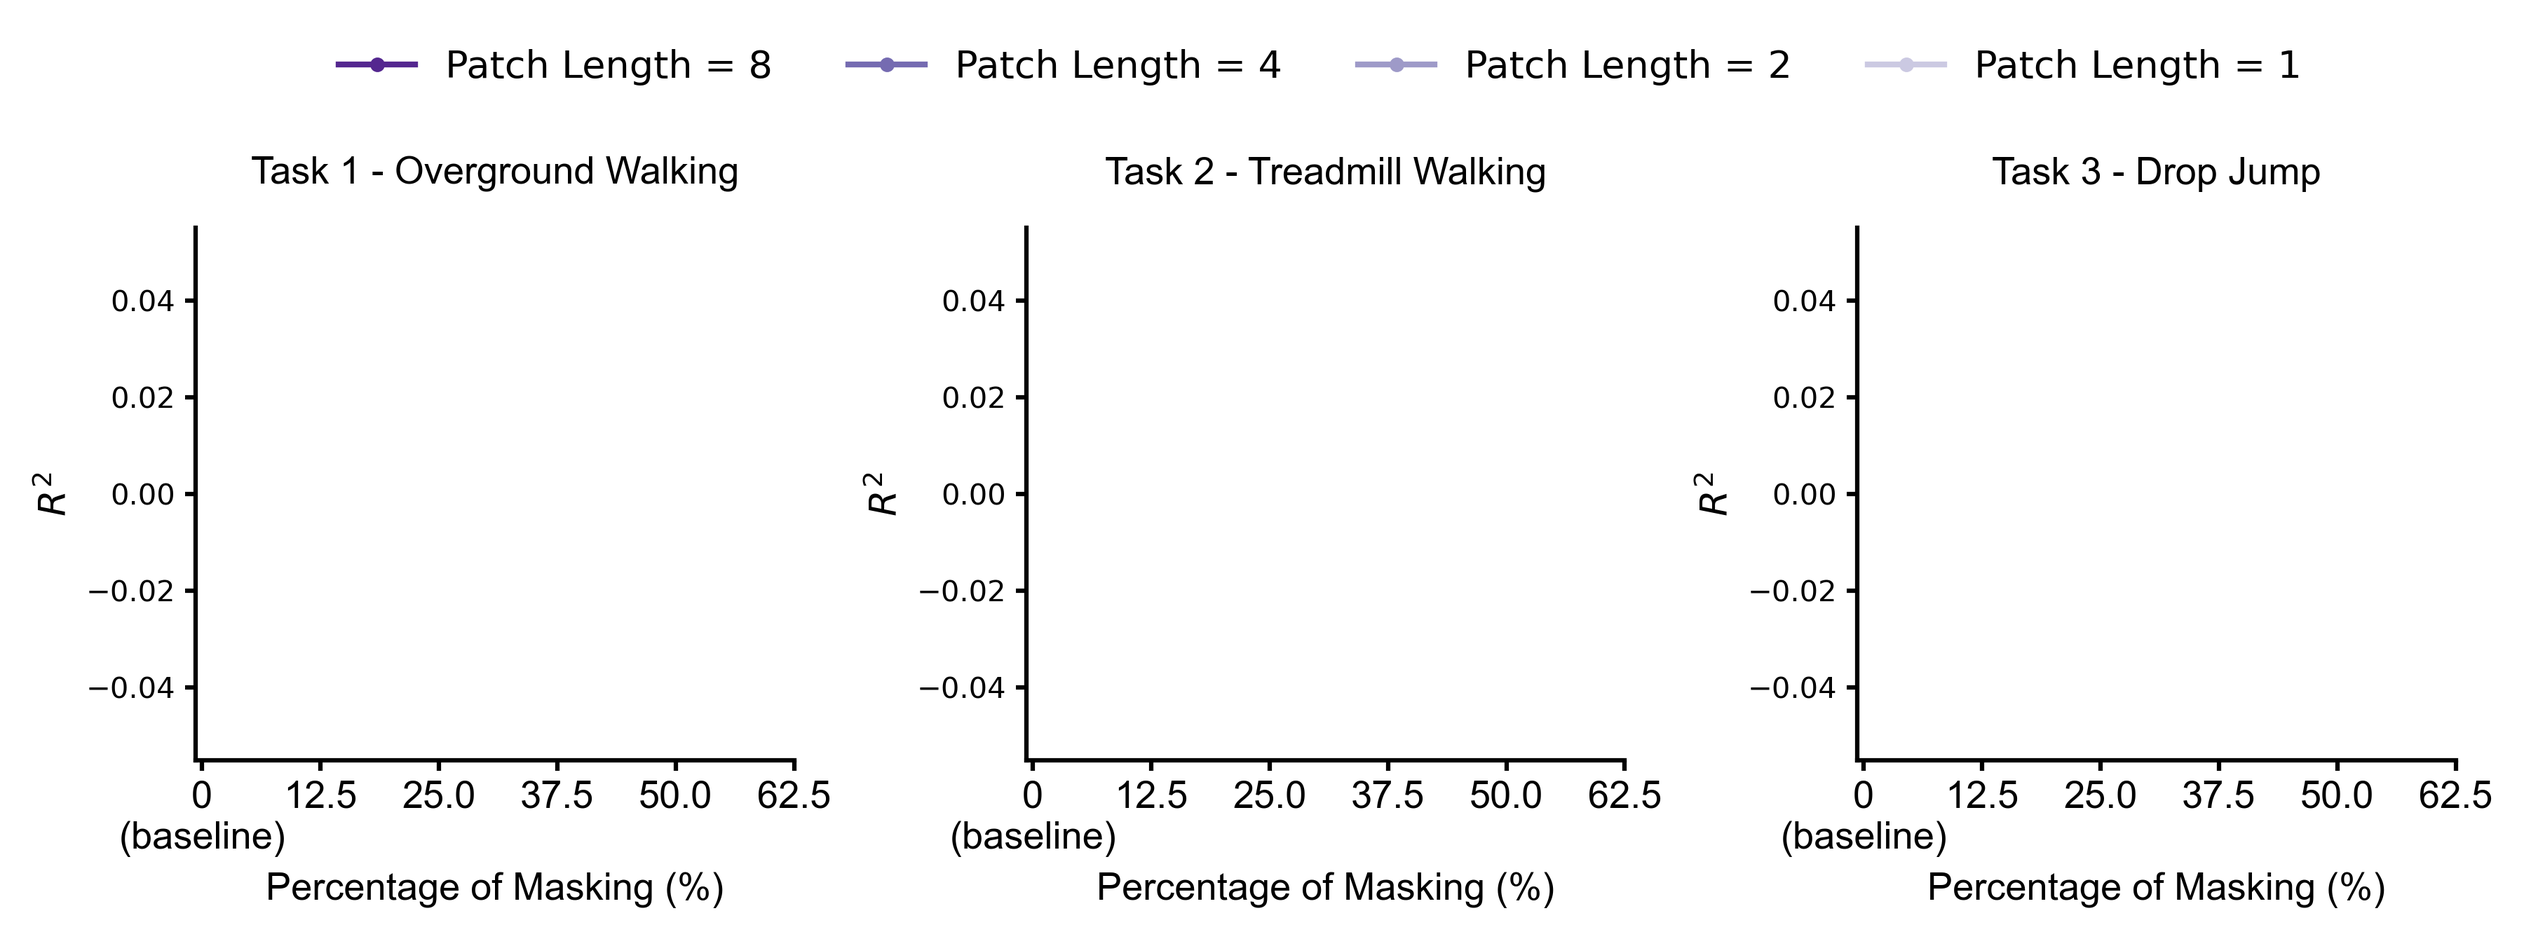
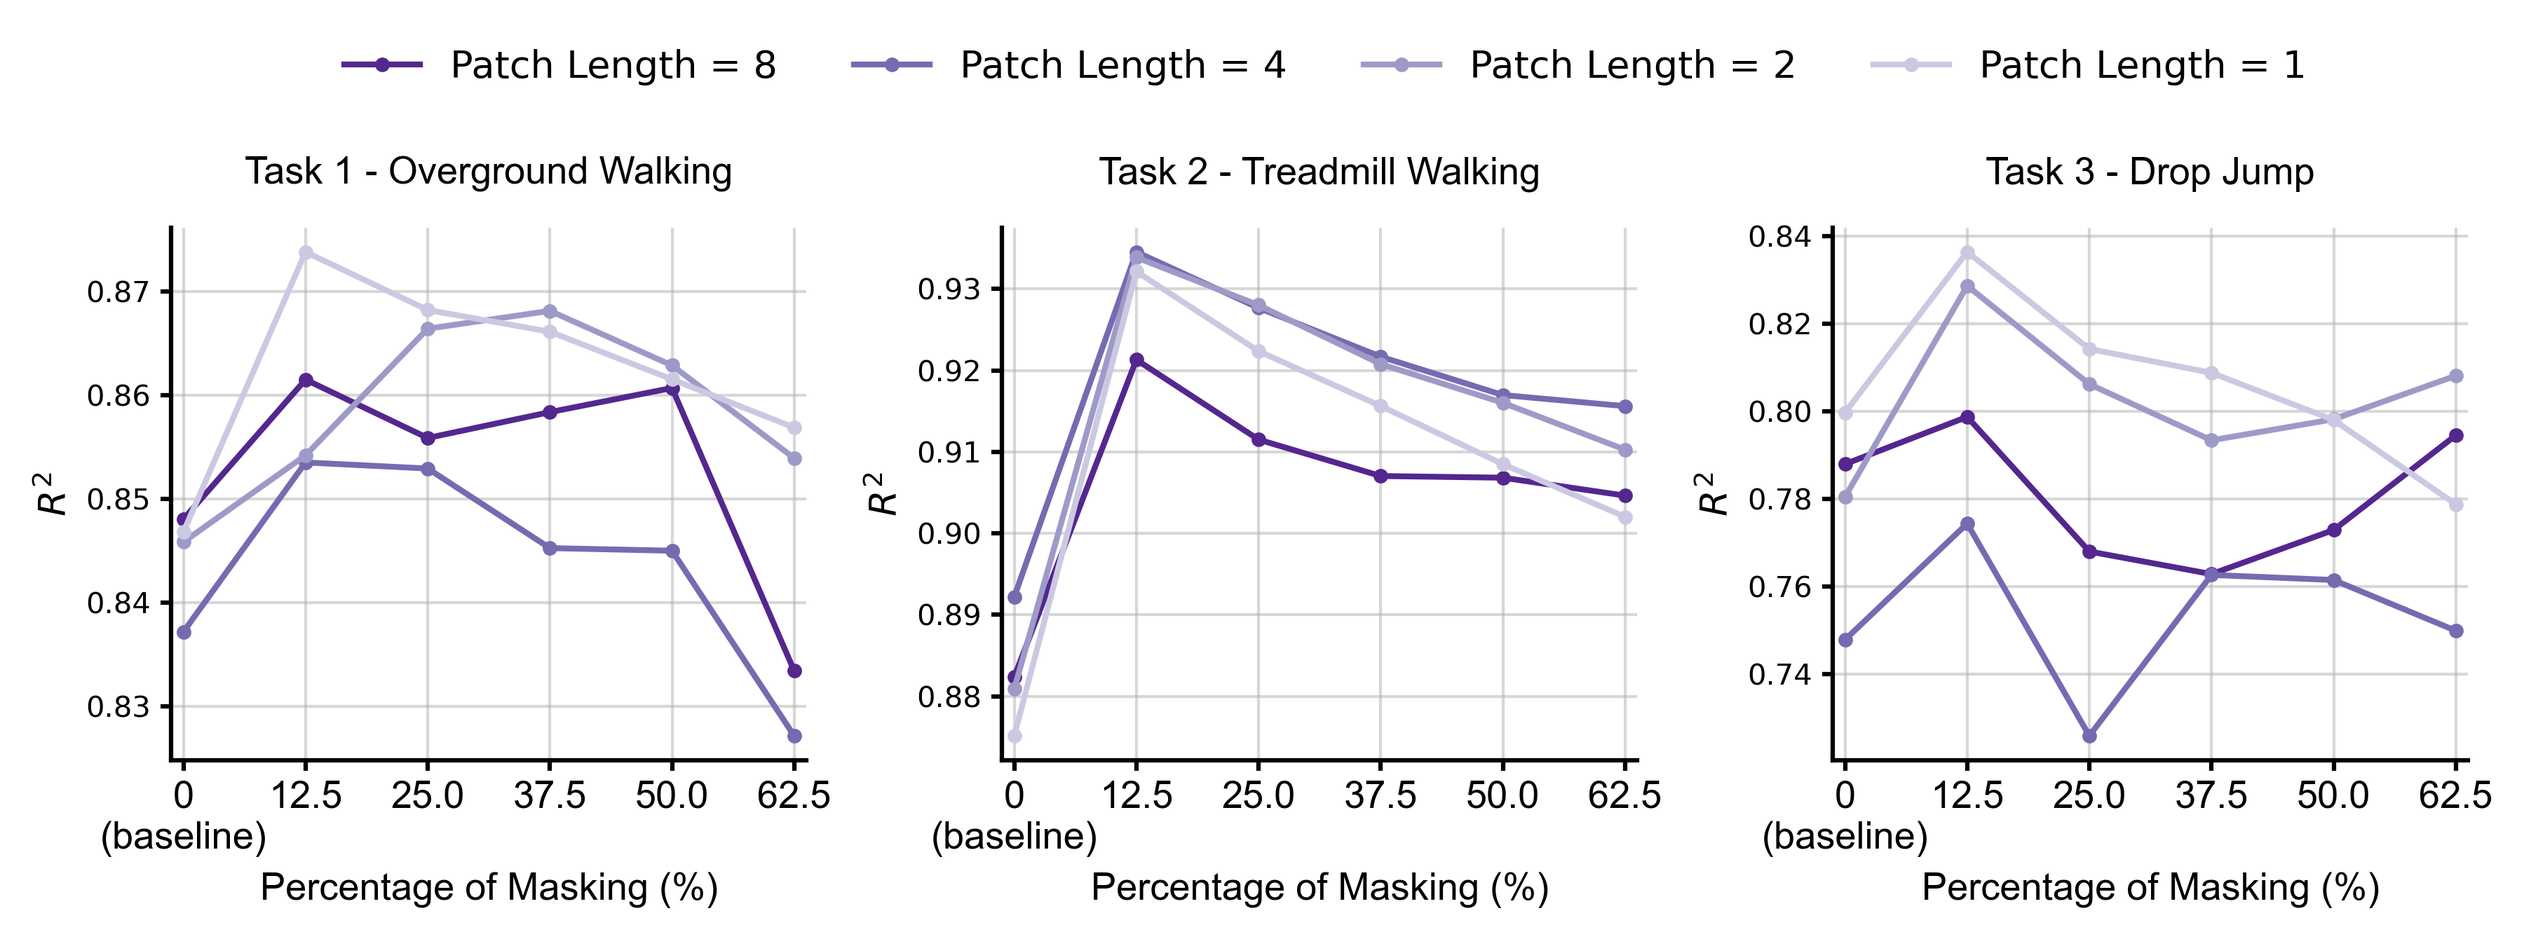
TF, map input to embedding space

diff --git a/ssl_main/model.py b/ssl_main/model.py
@@ -39,7 +39,7 @@ class SslReconstructNet(nn.Module):
     def __init__(self, emb_net, loss_fn):
         super(SslReconstructNet, self).__init__()
         self.emb_net = emb_net
-        self.linear = nn.Linear(emb_net.x_dim, emb_net.x_dim)
+        self.linear = nn.Linear(emb_net.embedding_dim, emb_net.x_dim * emb_net.patch_len)
         self.loss_fn = loss_fn
 
     def forward(self, mods, lens, tgt=None):
@@ -47,7 +47,8 @@ class SslReconstructNet(nn.Module):
         if tgt is not None:
             tgt = torch.concat(tgt, dim=1)
         mod_outputs, mask_indices, mod_all_expanded = self.emb_net(mod_all, lens, tgt)
-        mod_outputs = self.linear(mod_outputs.transpose(1, 2)).transpose(1, 2)
+        mask_indices = mask_indices.view([*mod_outputs.shape[:2], -1, mod_all.shape[1]]).flatten(1, 2).transpose(1, 2)
+        mod_outputs = self.linear(mod_outputs).view([*mod_outputs.shape[:2], -1, mod_all.shape[1]]).flatten(1, 2).transpose(1, 2)
         loss = self.loss_fn(mod_outputs, mod_all, mask_indices)
         return loss, mod_outputs, mask_indices
 
@@ -73,21 +74,16 @@ class RegressNet(nn.Module):
     def __init__(self, emb_net, mod_channel_num, output_dim):
         super(RegressNet, self).__init__()
         self.emb_net = emb_net
-        self.emb_output_dim = emb_net.x_dim
         self.output_dim = output_dim
+        self.linear = nn.Linear(emb_net.embedding_dim, output_dim * emb_net.patch_len)
 
-        self.linear = nn.Linear(self.emb_output_dim, output_dim)
-
-    def forward(self, x, lens, tgt=None):
+    def forward(self, x, test_flag, tgt=None):
         batch_size, _, seq_len = x[0].shape
         mod_all = torch.concat(x, dim=1)
-        if tgt is not None:
-            tgt = tgt.repeat(1, mod_all.shape[1] // tgt.shape[1], 1)
-        mod_outputs, _, _ = self.emb_net(mod_all, lens, tgt)
-
-        output = mod_outputs.transpose(1, 2)
-        output = self.linear(output)
-        output = output.transpose(1, 2)
+        # if tgt is not None:       # This is for an encoder-decoder TF
+        #     tgt = tgt.repeat(1, mod_all.shape[1] // tgt.shape[1], 1)
+        mod_outputs, _, _ = self.emb_net(mod_all, test_flag, tgt)
+        output = self.linear(mod_outputs).view([*mod_outputs.shape[:2], -1, self.output_dim]).flatten(1, 2).transpose(1, 2)
         return output, mod_outputs
 
 
@@ -224,7 +220,9 @@ class TransformerEncoderOnly(nn.Module):
         self.patch_step_len = patch_step_len
         self.pad_len = 0
         self.x_dim = x_dim
-        self.d_model = int(self.x_dim * patch_len)
+        self.embedding_dim = 192
+        self.input_to_embedding = nn.Linear(x_dim * patch_len, self.embedding_dim)
+        self.d_model = int(self.embedding_dim)
         encoder_layers = TransformerEncoderLayer(self.d_model, nhead, dim_feedforward, batch_first=True)
 
         self.transformer = TransformerEncoder(encoder_layers, nlayers)
@@ -234,27 +232,20 @@ class TransformerEncoderOnly(nn.Module):
         self.reduced_imu_mask_emb = nn.Parameter(torch.zeros([48, 128]).uniform_() - 0.5)
         self.mask_input_channel = mask_input_channel
         self.patch_num = int(128 / self.patch_len)
-        self.pos_encoding = PositionalEncoding(x_dim * patch_len, self.patch_num)
+        self.pos_encoding = PositionalEncoding(self.embedding_dim, self.patch_num)
 
     def forward(self, sequence, test_flag, _):
         sequence = self.apply_reduced_imu_set_mask(sequence)
         sequence_patch = self.divide_into_patches(sequence)
         sequence_patch, mask_indices = self.apply_ssl_mask(sequence_patch)
+        sequence_patch = self.input_to_embedding(sequence_patch)
         sequence_patch = self.pos_encoding(sequence_patch)
-        sequence_patch = self.transformer(sequence_patch)
-
-        output = self.flat_patches(sequence_patch)
-        mask_indices = self.flat_patches(mask_indices)
+        output = self.transformer(sequence_patch)
         return output, mask_indices, sequence
 
     def divide_into_patches(self, sequence):
         sequence = F.pad(sequence, (0, 0, self.pad_len, self.pad_len))
         sequence = sequence.unfold(2, self.patch_len, self.patch_step_len)
-        sequence = sequence.transpose(1, 2).flatten(start_dim=2)
-        return sequence
-
-    def flat_patches(self, sequence):
-        sequence = sequence.view([*sequence.shape[:2], -1, self.patch_len])
         sequence = sequence.transpose(1, 2).flatten(start_dim=2)
         return sequence
 

diff --git a/figures/f3_matrix.py b/figures/f3_matrix.py
@@ -65,20 +65,21 @@ def plot_curve(i_da, data_all, x_ticks, curve_labels):
         ax.plot(data_combined[:, i_col], color=colors[i_col], marker="o", markersize=4, linewidth=LINE_WIDTH_THICK)
     ax.set_xlabel('Percentage of Masking (%)', fontdict=FONT_DICT, labelpad=5)
     ax.set_xticks(range(len(x_ticks)))
+    ax.set_xlim(-0.1, len(x_ticks) - 0.9)
     ax.set_xticklabels(x_ticks, fontdict=FONT_DICT)
     ax.set_ylabel(r'$R^2$', fontdict=FONT_DICT)
-    if i_da == 0:
-        ax.set_yticks([0.6, 0.7, 0.8, 0.9])
-        ax.set_yticklabels([0.6, 0.7, 0.8, 0.9], fontdict=FONT_DICT)
-        ax.set_ylim(0.6, 0.9)
-    elif i_da == 1:
-        ax.set_yticks([0.86, 0.88, 0.9, 0.92])
-        ax.set_yticklabels([0.86, 0.88, 0.9, 0.92], fontdict=FONT_DICT)
-        ax.set_ylim(0.86, 0.92)
-    elif i_da == 2:
-        ax.set_yticks([0.6, 0.7, 0.8, 0.9])
-        ax.set_yticklabels([0.6, 0.7, 0.8, 0.9], fontdict=FONT_DICT)
-        ax.set_ylim(0.6, 0.9)
+    # if i_da == 0:
+    #     ax.set_yticks([0.6, 0.7, 0.8, 0.9])
+    #     ax.set_yticklabels([0.6, 0.7, 0.8, 0.9], fontdict=FONT_DICT)
+    #     ax.set_ylim(0.6, 0.9)
+    # elif i_da == 1:
+    #     ax.set_yticks([0.86, 0.88, 0.9, 0.92])
+    #     ax.set_yticklabels([0.86, 0.88, 0.9, 0.92], fontdict=FONT_DICT)
+    #     ax.set_ylim(0.86, 0.92)
+    # elif i_da == 2:
+    #     ax.set_yticks([0.6, 0.7, 0.8, 0.9])
+    #     ax.set_yticklabels([0.6, 0.7, 0.8, 0.9], fontdict=FONT_DICT)
+    #     ax.set_ylim(0.6, 0.9)
 
     # ax.set_yticks(plt.yticks(), fontdict=FONT_DICT)
     # ax.tick_params(axis='y', which='major', fontdict=FONT_DICT)
@@ -107,20 +108,20 @@ if __name__ == "__main__":
     test_names = ['/Camargo_levelground', '/walking_knee_moment', '/sun_drop_jump']
     test_names_print = ('Task 1 - Overground Walking', 'Task 2 - Treadmill Walking',
                         'Task 3 - Drop Jump')
-    test_folder = '2023_05_21_15_03_25_SSL_COMBINED_f2'
+    test_folder = '2023_08_22_22_55_56_TF encoder'
     data_path = RESULTS_PATH + test_folder
     if plot_type == 'curve':
         fig = plt.figure(figsize=(12, 4.5))
     else:
         fig, axes = plt.subplots(nrows=2, ncols=3, figsize=(8, 3.5), height_ratios=[3, 1])
-    metric = 'correlation'
+    metric = 'r2'
     for i_da, test_name in enumerate(test_names):
         plt.subplot(1, 3, i_da + 1)
         results_task = load_da_data(data_path + test_name + '_output' + '.h5')
         result_df = results_to_pd_summary(results_task, 0)
         result_df['PercentOfMasking'] = result_df['MaskPatchNum'] / (128 / result_df['PatchLen'])
 
-        patch_len_list = np.sort(list(set(result_df['PatchLen'])))[:-1]     #        # !!!
+        patch_len_list = np.sort(list(set(result_df['PatchLen'])))     #        # !!!
         percent_of_masking_list = np.sort(list(set(result_df['PercentOfMasking'])))
         percent_of_masking_list_str = [str(round(i * 100, 1)) + '' for i in percent_of_masking_list]
         result_mean_map = np.zeros([2, len(patch_len_list), len(percent_of_masking_list)])
@@ -135,6 +136,7 @@ if __name__ == "__main__":
             plot_curve(i_da, result_mean_map, ['0\n(baseline)'] + percent_of_masking_list_str, patch_len_list)
         else:
             plot_map(i_da, result_mean_map, patch_len_list, percent_of_masking_list_str)
+        plt.grid(True, linewidth=1, alpha=0.5)
     save_fig('f3')
     plt.show()
 

diff --git a/ssl_main/a0_process_MoVi.py b/ssl_main/a0_process_MoVi.py
@@ -3,7 +3,7 @@ import numpy as np
 import ast
 import pandas as pd
 import matplotlib.pyplot as plt
-from const import TRIAL_TYPES, GRAVITY, STANDARD_IMU_SEQUENCE, DICT_TRIAL_MOVI
+from const import STANDARD_IMU_SEQUENCE, GRAVITY, STANDARD_IMU_SEQUENCE, DICT_TRIAL_MOVI
 from utils import resample_to_target_fre
 from a0_process_camargo import DataStruct, BaseSegmentation
 DATA_PATH_MOVI = 'D:/OneDrive - sjtu.edu.cn/MyProjects/2023_SSL/data/MoVi/data_processed/'
@@ -77,8 +77,10 @@ class ContinuousDatasetLoader:
                 self.columns = self.update_imu_name(self.columns)
                 trial_data = self.calibrate_imu_orientation(trial_data, self.columns)
                 for method in segment_methods:
-                    method.start_segment(trial_data)
+                    method.start_segment(trial_data, self.columns)
             [method.export(self.columns, subject) for method in segment_methods]
+        [print(method.num_of_static_win, method.num_of_all_win, method.num_of_static_win/method.num_of_all_win)
+         for method in segment_methods]
 
 
 def compare_real_synthetic_movi():
@@ -114,24 +116,29 @@ def compare_real_synthetic_movi():
     plt.show()
 
 
-class WindowSegmentation(BaseSegmentation):
+class MoviWindowSegmentation(BaseSegmentation):
     def __init__(self, win_len, name='UnivariantWinTest', imu_num=17):
         self.imu_num = imu_num
         self.win_len = win_len
         self.name = name
         # self.win_step = int(self.win_len/4)
         self.win_step = win_len
+        self.num_of_static_win = 0
+        self.num_of_all_win = 0
 
-    def start_segment(self, trial_data):
+    def start_segment(self, trial_data, trial_columns):
         trial_len = trial_data.shape[0]
         i_current = 0
-        acc_cols = [6*i for i in range(self.imu_num)] + [6*i + 1 for i in range(self.imu_num)] + [6*i + 2 for i in range(self.imu_num)]
+        acc_cols = [trial_columns.index(imu + '_Accel_' + axis) for imu in STANDARD_IMU_SEQUENCE for axis in ['X', 'Y', 'Z']]
         acc_cols.sort()
         while i_current+self.win_len < trial_len:
             data_ = trial_data[i_current:i_current+self.win_len]
             acc_std = np.std(data_[:, acc_cols], axis=0)
-            if acc_std.mean() >= 0.5:
+            self.num_of_all_win += 1
+            if acc_std.mean() >= 0.2:
                 self.data_struct.add_new_step(data_)
+            else:
+                self.num_of_static_win += 1
             i_current += self.win_step
 
 
@@ -141,13 +148,14 @@ movi_orientation_transform_mat = {
     'R_SHANK': np.array([[0, -1, 0], [-1, 0, 0], [0, 0, -1]]), 'L_SHANK': np.array([[0, -1, 0], [-1, 0, 0], [0, 0, -1]]),
     'R_FOOT': np.array([[0, -1, 0], [0, 0, 1], [-1, 0, 0]]), 'L_FOOT': np.array([[0, -1, 0], [0, 0, 1], [-1, 0, 0]])}
 
+
 if __name__ == '__main__':
     sub_list = ['sub_' + str(i+1) for i in range(88)]
 
-    compare_real_synthetic_movi()
+    # compare_real_synthetic_movi()
 
-    # data_reader = ContinuousDatasetLoader(sub_list, 100)
-    # data_reader.loop_all_the_trials([WindowSegmentation(128, 'MoVi')])
+    data_reader = ContinuousDatasetLoader(sub_list, 100)
+    data_reader.loop_all_the_trials([MoviWindowSegmentation(128, 'MoVi')])
 
 
 

diff --git a/ssl_main/a0_process_amass.py b/ssl_main/a0_process_amass.py
@@ -11,10 +11,8 @@ import matplotlib.pyplot as plt
 import os
 import torch
 import scipy.interpolate as interpo
-from a0_process_MoVi import ContinuousDatasetLoader, WindowSegmentation
 import h5py, json
 from config import AMASS_PATH, DATA_PATH
-from multiprocessing import Pool, cpu_count
 import time
 import random
 
@@ -204,12 +202,12 @@ def process_one_trial(npz_fname, body_model_path, imu_names, columns, i_trial, t
 def load_npy_and_to_h5():
     with h5py.File(DATA_PATH + 'amass_with_extreme_values.h5', 'w') as hf:
         hf.attrs['columns'] = json.dumps(columns)
+        num_of_removed_static, num_of_removed_extreme, num_of_windows_all = 0, 0, 0
         for dset_name in next(os.walk(npy_data_path))[1]:
 
             dset_wins = []
             temp_files = glob.glob(os.path.join(npy_data_path, dset_name, '*.npy'))
             print(f'Saving dset: {dset_name}, {len(temp_files)} trials')
-            num_of_removed_static, num_of_removed_extreme = 0, 0
             for temp_file in temp_files:
                 with open(temp_file, 'rb') as f:
                     trial_data_continuous = np.load(f)
@@ -223,6 +221,7 @@ def load_npy_and_to_h5():
                         win_data = trial_data_continuous[:, i_:i_+win_len]
                         acc_std = np.std(win_data[acc_cols], axis=1)
 
+                        num_of_windows_all += 1
                         if acc_std.mean() < 2:
                             num_of_removed_static += 1
                             continue
@@ -235,6 +234,10 @@ def load_npy_and_to_h5():
             if len(dset_wins) > 0:
                 dset_data = np.stack(dset_wins)
                 dset = hf.create_dataset(dset_name, dset_data.shape, data=dset_data)
+        print(f'{num_of_removed_static} / {num_of_removed_extreme} / {num_of_windows_all},'
+              f' {num_of_removed_static / num_of_windows_all * 100:.1f}% static, '
+              f' {num_of_removed_extreme / num_of_windows_all * 100:.1f}% extreme'
+              f' {num_of_windows_all - num_of_removed_extreme - num_of_removed_static}% kept')
 
 
 def npy_to_h5_small_size():
@@ -335,8 +338,8 @@ imu_cut_off_fre = None
 npy_data_path = f'{DATA_PATH}../AMASS_data_cutoff_{amass_cut_off_fre}/'
 
 if __name__ == '__main__':
-    process_amass_single_thread()
-    # load_npy_and_to_h5()
+    # process_amass_single_thread()
+    load_npy_and_to_h5()
 
     # check_num_of_npy_vs_num_of_npz()
     # check_extreme_values()

diff --git a/ssl_main/a1_ssl.py b/ssl_main/a1_ssl.py
@@ -244,7 +244,7 @@ class FrameworkDownstream:
     def set_regress_net_to_post_ssl_state(self):
         self.regress_net.load_state_dict(self.regress_net_post_ssl_state)
 
-    def regressibility(self, linear_protocol, use_ssl, show_fig=True, verbose=False):
+    def regressibility(self, linear_protocol, use_ssl, show_fig=False, verbose=True):
         def convert_batch_data(batch_data):
             xb = [data_.float().type(dtype) for data_ in batch_data[:-2]]
             yb = batch_data[-2].float().type(dtype)
@@ -603,13 +603,13 @@ SSL_MOVI = {'ssl_file_names': ['MoVi'], 'imu_segments': STANDARD_IMU_SEQUENCE}
 SSL_AMASS = {'ssl_file_names': ['amass'], 'imu_segments': STANDARD_IMU_SEQUENCE}
 SSL_COMBINED = {'ssl_file_names': ['MoVi', 'amass'], 'imu_segments': STANDARD_IMU_SEQUENCE}
 
-# config = {'NumGradDeSsl': 1e4, 'NumGradDeDa': 3e2, 'ssl_use_ratio': 1, 'log_with_wandb': True,
-config = {'NumGradDeSsl': 1e1, 'NumGradDeDa': 1e1, 'ssl_use_ratio': 0.01, 'log_with_wandb': False,
+config = {'NumGradDeSsl': 1e4, 'NumGradDeDa': 3e2, 'ssl_use_ratio': 1, 'log_with_wandb': True,
+# config = {'NumGradDeSsl': 1e1, 'NumGradDeDa': 3e2, 'ssl_use_ratio': 0.01, 'log_with_wandb': False,
           'BatchSizeSsl': 64, 'BatchSizeLinear': 64, 'LrSsl': 1e-4, 'LrDa': 1e-4, 'FeedForwardDim': 512,
           'nlayers': 6, 'nhead': 48, 'device': 'cuda', 'ssl_loss_fn': mse_loss_masked, 'emb_net': transformer}
 
-test_name = 'hyper_da'
-test_info = 'full run'
+test_name = 'TF encoder'
+test_info = 'nhead=48'
 
 # config['result_dir'] = os.path.join(RESULTS_PATH, '2023_08_17_23_17_48_hyper_da')      # local
 # config['result_dir'] = os.path.join('../../results/2023_07_14_13_47_19_new_amass_copy')      # cluster
@@ -627,8 +627,8 @@ if __name__ == '__main__':
     # tune_ssl_hyper()
     # tune_da_hyper()
 
-    coupled_hypers = (['PatchLen', 'MaskPatchNum'],  {8: [6]})
-    # coupled_hypers = (['PatchLen', 'MaskPatchNum'], {1: [16, 32, 48, 64, 80], 2: [8, 16, 24, 32, 40], 4: [4, 8, 12, 16, 20], 8: [2, 4, 6, 8, 10], 16: [1, 2, 3, 4, 5]})
+    coupled_hypers = (['PatchLen', 'MaskPatchNum'],  {1: [16]})
+    # coupled_hypers = (['PatchLen', 'MaskPatchNum'], {1: [16, 32, 48, 64, 80], 2: [8, 16, 24, 32, 40], 4: [4, 8, 12, 16, 20], 8: [2, 4, 6, 8, 10]})
     independent_hyper = ('NumGradDeSsl', [config['NumGradDeSsl']])
 
     for indep_hyper_val in independent_hyper[1]:

diff --git a/ssl_main/a0_process_camargo.py b/ssl_main/a0_process_camargo.py
@@ -204,6 +204,7 @@ class ContinuousDatasetLoader:
                 for method in segment_methods:
                     method.start_segment(trial_data, self.columns)
             [method.export(self.columns, subject) for method in segment_methods]
+            [print(method.num_of_all_win) for method in segment_methods]
 
 
 class DataStruct:
@@ -245,7 +246,8 @@ class HasDataSegmentation(BaseSegmentation):
     def __init__(self, name='Camargo'):
         self.win_len = self.data_len = 128
         self.name = name
-        self.win_step = self.win_len
+        self.win_step = int(self.win_len / 2)
+        self.num_of_all_win = 0
 
     def start_segment(self, trial_data, columns):
         trial_len = trial_data.shape[0]
@@ -255,12 +257,11 @@ class HasDataSegmentation(BaseSegmentation):
         grf_margin = 40
         grf_start = np.where(grf_bool[1:] & ~grf_bool[:-1])[0] + 1 - grf_margin
         for i_start in grf_start:
-            i_current = i_start
-            while i_current+self.win_len < trial_len and walking_turning_stair_ramp_treadmill[i_current:i_current+self.win_len].all() and \
-                    grf_bool[i_current+grf_margin:i_current+self.win_len-grf_margin].all():
-                data_ = trial_data[i_current:i_current+self.win_len]
+            if i_start+self.win_len < trial_len and walking_turning_stair_ramp_treadmill[i_start:i_start+self.win_len].all() and \
+                    grf_bool[i_start+grf_margin:i_start+self.win_len-grf_margin].all():
+                self.num_of_all_win += 1
+                data_ = trial_data[i_start:i_start+self.win_len]
                 self.data_struct.add_new_step(data_)
-                i_current += self.win_step
 
 
 class WindowSegmentation(BaseSegmentation):

diff --git a/figures/f5_bars_peak.py b/figures/f5_bars_peak.py
@@ -87,6 +87,7 @@ if __name__ == "__main__":
     rc('font', family='Arial')
     bars = []
     fig = plt.figure()
+    rmse_value = []
     for i_da, (da_name, sign_of_peak) in enumerate(zip(da_names, da_sign_of_peak)):
         values_for_anova = []
         for i_test, test_folder in enumerate(test_folders):
@@ -107,6 +108,10 @@ if __name__ == "__main__":
             result_df = results_to_pd_summary_only_peaks(results_task, 0, sign_of_peak)
             bars.append(draw_box(result_df, i_da, i_test))
             values_for_anova.append(result_df[metric].values)
+
+            # record rmse of models pretrained on AMASS
+            if i_test == 1:
+                rmse_value.append(result_df['rmse'].values * 9.81)
         if i_da == 1:
             draw_error_bars(values_for_anova)
         values_for_anova_np = np.array(values_for_anova)
@@ -118,5 +123,6 @@ if __name__ == "__main__":
     fig.lines.extend([l1, l2])
     finalize_fig(bars)
 
+    [print(str(np.round(np.mean(data_), 2)) + ' \pm ' + str(np.round(np.std(data_), 2))) for data_ in rmse_value]
 
 

diff --git a/figures/PaperFigures.py b/figures/PaperFigures.py
@@ -77,11 +77,6 @@ def results_to_pd_summary_only_peaks(result_all_tests, result_field_id, sign_of_
         for sub_name, subject_data in test_results.items():
             sub_id = int(sub_name[4:])
             data_true, data_pred = subject_data[:, result_field_id], subject_data[:, result_field_id+int(subject_data.shape[1]/2)]
-            # if len(data_true) <= 1:
-            #     continue
-            # if sub_id == 18:
-            #     x=1
-
             peaks = np.array([[np.max(sign_of_peak * data_step_true), np.max(sign_of_peak * data_step_pred)]
                               for data_step_true, data_step_pred in zip(data_true, data_pred)])
             rmse = np.sqrt(mse(peaks[:, 0], peaks[:, 1]))
